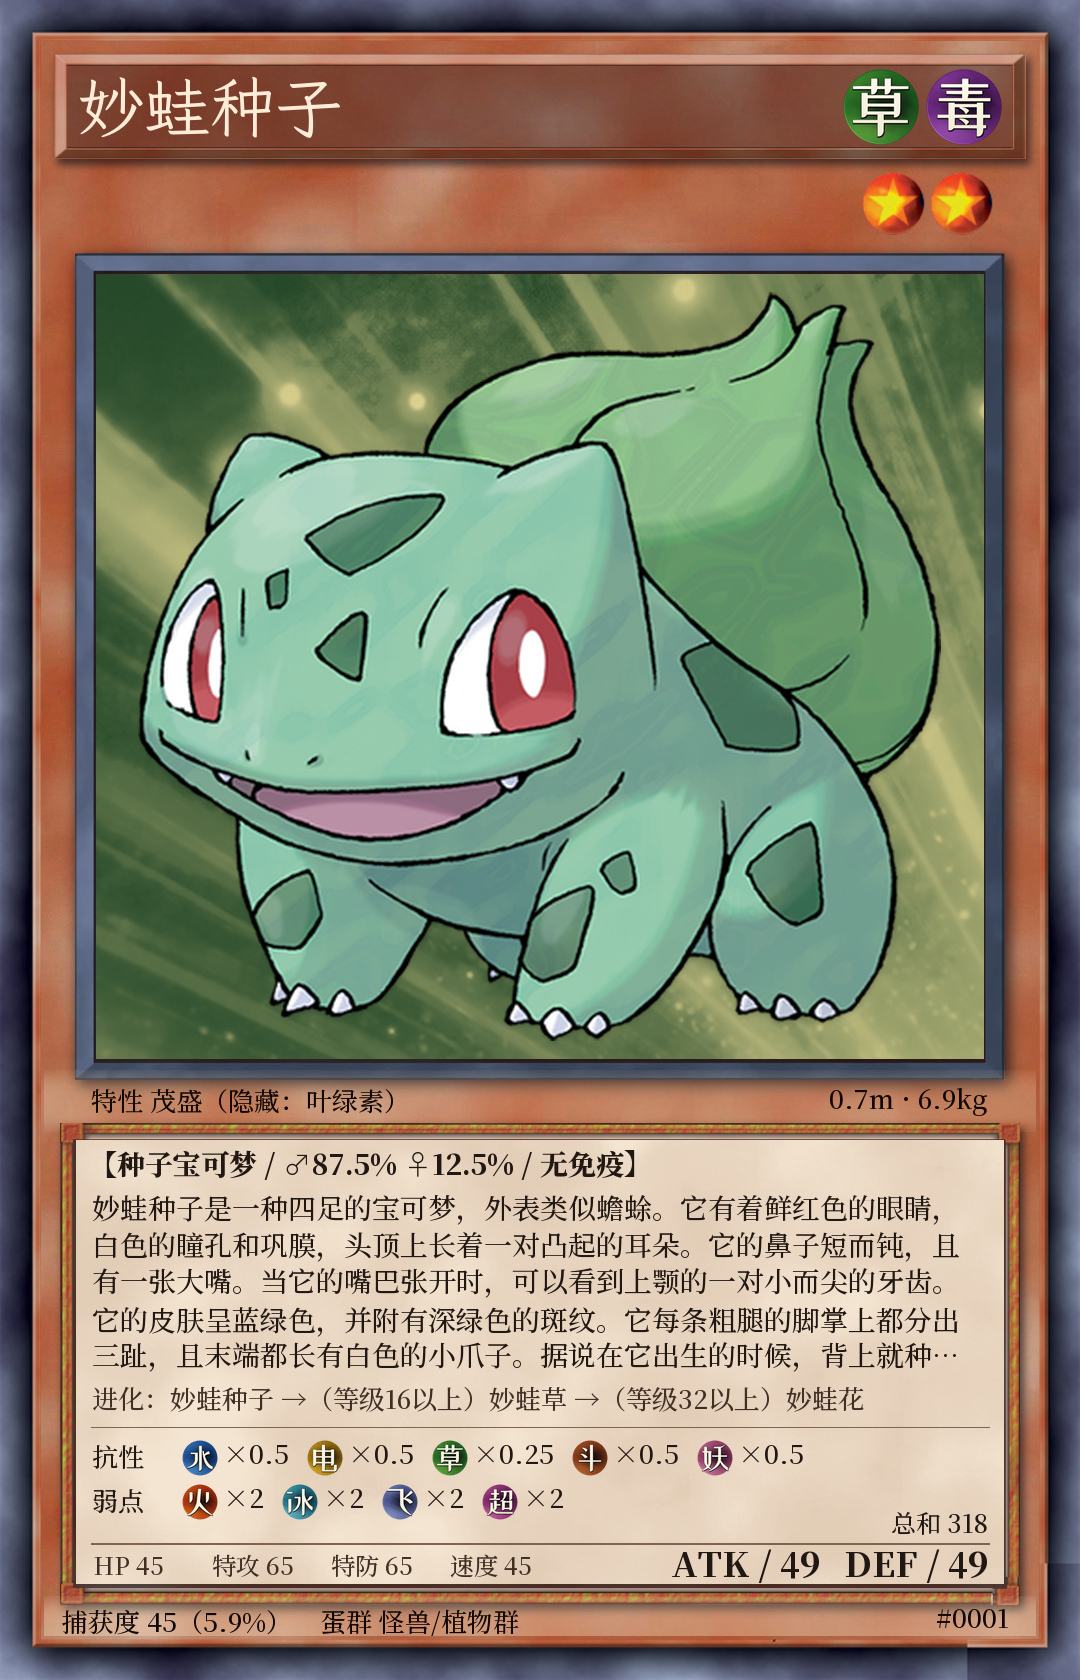
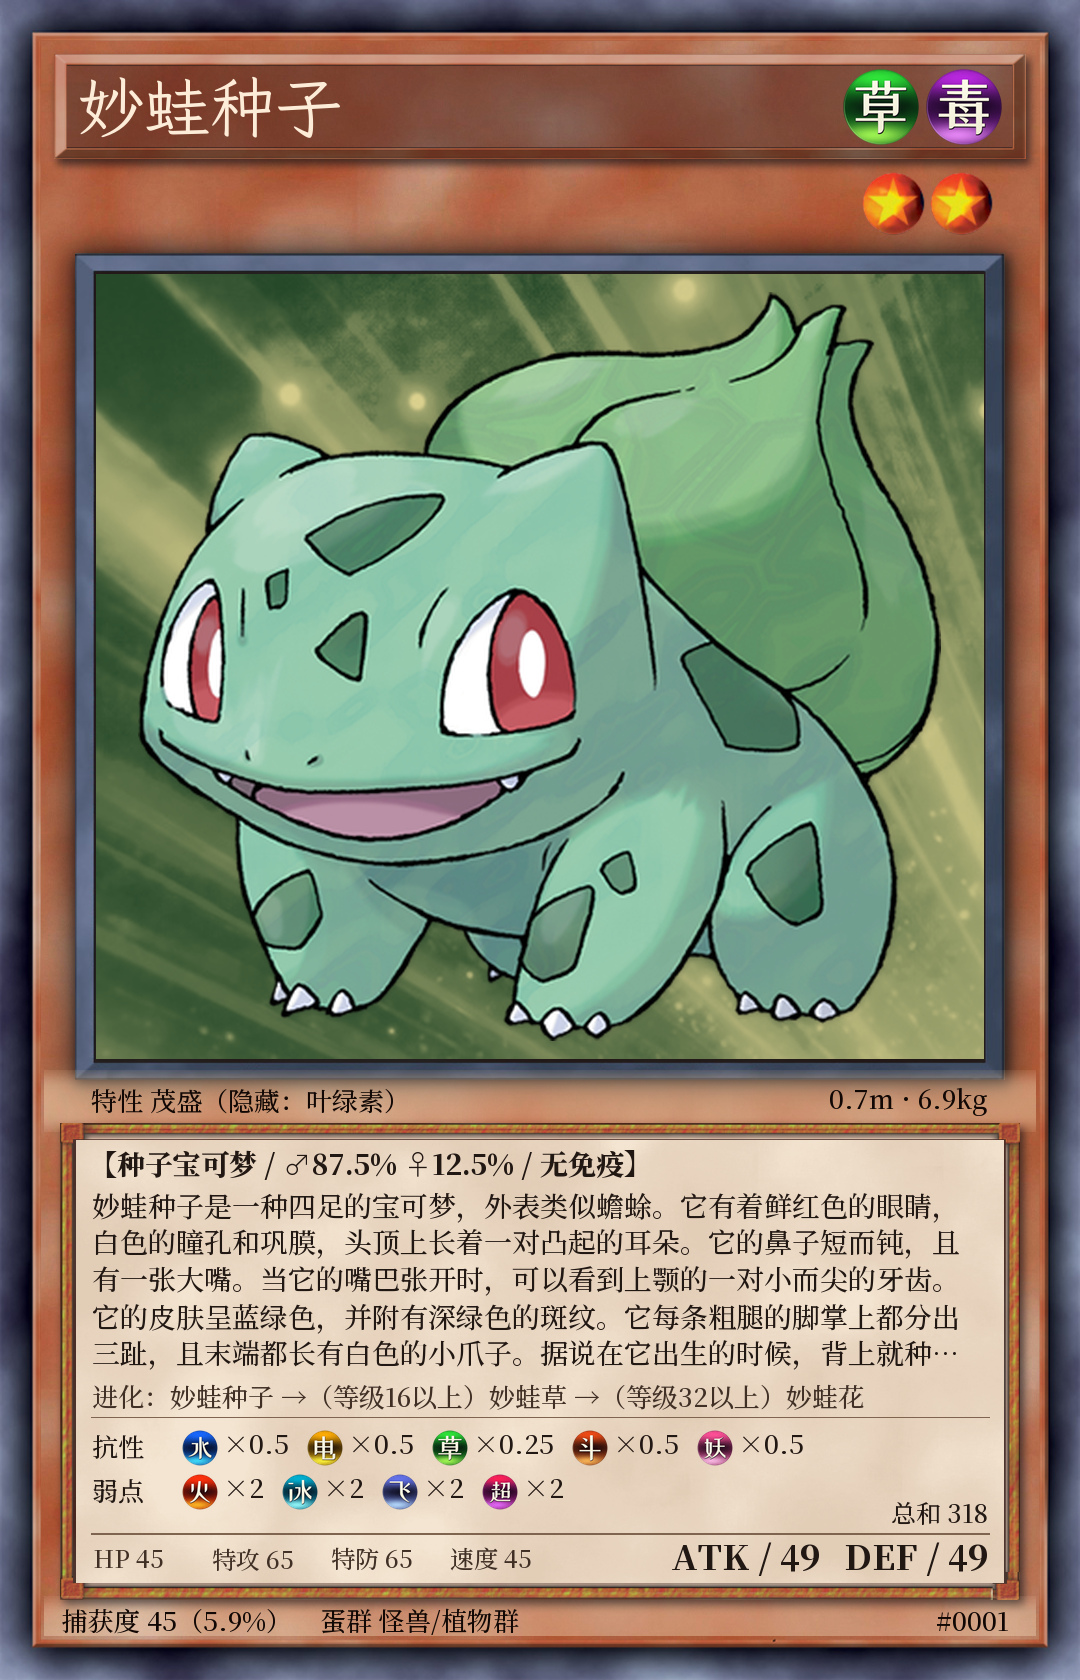
Refine Yu-Gi-Oh card spacing, frame shadows and luminous attributes

diff --git a/yugioh_symbols.py b/yugioh_symbols.py
@@ -44,6 +44,29 @@ ATTRIBUTES = {
     "妖精": ("妖", (145, 44, 93), (250, 162, 198)),
 }
 
+# The printed jewels have a bright upper pole, an almost black waist and a
+# saturated lower reflection. Hue shifts distinguish the two lit surfaces.
+_POLES = {
+    "草": ((47, 230, 58), (170, 255, 86)),
+    "火": ((255, 49, 12), (255, 191, 37)),
+    "水": ((23, 103, 255), (66, 229, 255)),
+    "电": ((255, 173, 5), (255, 247, 61)),
+    "超能力": ((255, 31, 84), (231, 108, 255)),
+    "格斗": ((240, 74, 21), (255, 188, 90)),
+    "恶": ((147, 22, 155), (213, 106, 255)),
+    "钢": ((105, 153, 185), (194, 247, 255)),
+    "龙": ((113, 47, 252), (154, 164, 255)),
+    "一般": ((189, 145, 91), (255, 240, 191)),
+    "冰": ((0, 177, 210), (155, 255, 255)),
+    "地面": ((215, 117, 25), (253, 211, 102)),
+    "飞行": ((99, 113, 236), (185, 223, 255)),
+    "毒": ((185, 39, 224), (240, 143, 255)),
+    "岩石": ((162, 145, 35), (238, 229, 123)),
+    "虫": ((138, 187, 10), (224, 255, 58)),
+    "幽灵": ((116, 51, 197), (195, 150, 255)),
+    "妖精": ((255, 79, 150), (255, 192, 235)),
+}
+
 _ALIASES = dict(zip(
     ("grass", "fire", "water", "electric", "psychic", "fighting", "dark",
      "steel", "dragon", "normal", "ice", "ground", "flying", "poison",
@@ -73,6 +96,7 @@ def _mix(a, b, amount):
 def _draw_jewel(type_name: str, *, face=None) -> Image.Image:
     """Asset-preparation source; live rendering reads the bundled PNGs below."""
     glyph, tint, reflected = ATTRIBUTES.get(type_name, ("?", (60, 59, 69), (180, 177, 190)))
+    upper_light, lower_light = _POLES.get(type_name, ((133, 132, 166), (223, 223, 249)))
     size, centre, radius = 256, 127.5, 124.0
     rng = random.Random(901 + sum(ord(char) for char in type_name))
     data = []
@@ -84,22 +108,23 @@ def _draw_jewel(type_name: str, *, face=None) -> Image.Image:
             if r >= 1:
                 data.append((0, 0, 0, 0))
                 continue
-            # The reference is printed enamel: a dark ink well, broad coloured
-            # reflections, and a thin struck rim rather than a glass hotspot.
-            lower = math.exp(-((u + .30) ** 2 / .68 + (v - .60) ** 2 / .22))
-            upper = math.exp(-((u + .43) ** 2 / .40 + (v + .63) ** 2 / .18))
-            hollow = math.exp(-((u - .21) ** 2 / .61 + (v + .04) ** 2 / .39))
+            # Broad opposing luminous poles leave a dark waist behind the
+            # lettering, as in the reference's red-to-purple DARK emblem.
+            lower = math.exp(-((u + .18) ** 2 / .90 + (v - .74) ** 2 / .075))
+            upper = math.exp(-((u + .08) ** 2 / 1.45 + (v + .77) ** 2 / .115))
+            hollow = math.exp(-((u - .07) ** 2 / 1.6 + (v + .01) ** 2 / .14))
             cloud = .5 + .25 * math.sin(u * 17 + 1.3 * math.sin(v * 11))
             cloud += .25 * math.sin(v * 21 - u * 9)
-            color = _mix(tint, reflected, .16 + .49 * lower + .23 * upper)
-            color = _mix(color, (5, 4, 8), .84 * hollow)
-            color = _mix(color, reflected, cloud * .055)
+            color = _mix(tint, (5, 2, 10), .80 * hollow)
+            color = _mix(color, upper_light, .98 * upper)
+            color = _mix(color, lower_light, .90 * lower)
+            color = _mix(color, reflected, cloud * .018)
             if r > .947:
                 # Only the lower-left cut edge catches light. A complete pale
                 # ring would turn the reference's jewel into a metal badge.
                 direction = max(0.0, min(1.0, -.52 * u + .48 * v))
                 edge = _mix(_mix(tint, (16, 10, 19), .54),
-                            _mix(reflected, (245, 237, 216), .35), direction)
+                            _mix(lower_light, (245, 249, 255), .38), direction)
                 highlight = math.exp(-((r - .971) / .013) ** 2)
                 color = _mix(color, edge, highlight * (.3 + .7 * direction))
                 color = _mix(color, (12, 8, 17), max(0.0, (r - .986) / .014) * .64)
@@ -110,6 +135,7 @@ def _draw_jewel(type_name: str, *, face=None) -> Image.Image:
             data.append((*color, alpha))
     result = Image.new("RGBA", (size, size))
     result.putdata(data)
+    disc_alpha = result.getchannel('A')
     # The inscription face has the reference's straight cuts and sharp endings.
     # This generator is offline; the live path below only reads cached images.
     face = face or load_card_font(210, "symbol")
@@ -117,14 +143,21 @@ def _draw_jewel(type_name: str, *, face=None) -> Image.Image:
     draw = ImageDraw.Draw(mask)
     draw.text((8, 8), glyph, font=face, anchor="lt", fill=255, stroke_width=1)
     mask = mask.crop(mask.getbbox())
-    scale = min(185 / mask.width, 191 / mask.height)
+    # Rectangular bounds are insufficient: a sweeping lower-left stroke can
+    # cross a circle even when both width and height fit. Fit the actual ink
+    # radially, leaving room for the engraving shadow inside the rim.
+    half_w, half_h = (mask.width - 1) / 2, (mask.height - 1) / 2
+    farthest = max(math.hypot(x-half_w, y-half_h)
+                   for y in range(mask.height) for x in range(mask.width)
+                   if mask.getpixel((x, y)) > 8)
+    scale = min(177 / mask.width, 181 / mask.height, 104 / max(1, farthest))
     mask = mask.resize((round(mask.width * scale), round(mask.height * scale)),
                        Image.Resampling.LANCZOS)
     centred = Image.new("L", result.size)
-    centred.paste(mask, ((size - mask.width) // 2, (size - mask.height) // 2 + 2))
+    centred.paste(mask, ((size - mask.width) // 2, (size - mask.height) // 2))
     mask = centred
     shade = Image.new("RGBA", result.size, (17, 7, 21, 0))
-    shade.putalpha(mask.filter(ImageFilter.MaxFilter(5)).filter(ImageFilter.GaussianBlur(.65)))
+    shade.putalpha(mask.filter(ImageFilter.MaxFilter(3)).filter(ImageFilter.GaussianBlur(.65)))
     result.alpha_composite(shade, (1, 2))
     ink = Image.new("RGBA", (1, size))
     ink.putdata([(*_mix((255, 254, 239), (237, 233, 209), y / (size - 1)), 255)
@@ -132,6 +165,7 @@ def _draw_jewel(type_name: str, *, face=None) -> Image.Image:
     ink = ink.resize(result.size)
     ink.putalpha(mask)
     result.alpha_composite(ink)
+    result.putalpha(disc_alpha)
     return result
 
 

diff --git a/yugioh_cards.py b/yugioh_cards.py
@@ -35,6 +35,11 @@ except ImportError:
 
 
 CARD_W, CARD_H = 1080, 1680
+# The visible paper, rather than the frame's shadow, defines each text rail.
+READING_BOX = (60, 1123, 1020, 1600)
+READING_PAPER = (76, 1140, 1004, 1583)
+STATS_RULE_Y = 1533
+FOOTER_BOTTOM = 1644
 STAT_NAMES = ("HP", "攻击", "防御", "特攻", "特防", "速度")
 INKS = {
     "C": ((34, 24, 19), (63, 47, 37), (127, 100, 79)),
@@ -258,7 +263,7 @@ def _matchups(base, layout, top, kind, total):
         y += len(rows) * 40 + 4
     total_text = f"总和 {total}"
     # Align the bottom-right number with the end of the ATK/DEF rule.
-    _text(draw, 988 - draw.textlength(total_text, font=_font(25)), 1511,
+    _text(draw, 988 - draw.textlength(total_text, font=_font(25)), STATS_RULE_Y - 32,
           total_text, 25, ink)
 
 
@@ -266,13 +271,13 @@ def _stats_band(base, item, kind):
     draw = ImageDraw.Draw(base)
     ink, muted, rule = INKS[kind]
     stats = _stats(item)
-    center_y = 1566
+    center_y = (STATS_RULE_Y + 2 + READING_PAPER[3]) / 2
     for index, name in enumerate(("HP", "特攻", "特防", "速度")):
         x = 93 + index * 119
         text = f"{name} {stats.get(name, '—')}"
         height = _font(24).getbbox(text, anchor="lt")[3]
         _text(draw, x, center_y - height / 2, text, 24, muted)
-    draw.line((91, 1543, 989, 1543), fill=rule, width=2)
+    draw.line((91, STATS_RULE_Y, 989, STATS_RULE_Y), fill=rule, width=2)
     combat = f"ATK / {stats.get('攻击', '—')}   DEF / {stats.get('防御', '—')}"
     height = _title_font(34).getbbox(combat, anchor="lt")[3]
     _text(draw, 988 - draw.textlength(combat, font=_title_font(34)), center_y - height / 2,
@@ -284,8 +289,9 @@ def _foil_name(base, name, x, y, size, kind, *, font=None):
 
 
 def _reading_frame(base, kind):
-    paint_frame(base, 'description', (60, 1123, 1020, 1605), kind)
-    base.alpha_composite(render_reading_stock(kind, 928, 444), (76, 1140))
+    paint_frame(base, 'description', READING_BOX, kind)
+    left, top, right, bottom = READING_PAPER
+    base.alpha_composite(render_reading_stock(kind, right-left, bottom-top), (left, top))
 
 
 def _descriptor(base, item, types, kind, missing):
@@ -323,7 +329,7 @@ def _quiet_rail(base, top, bottom, kind):
     if kind not in {'C', 'R', 'SR'}:
         return
     if kind == 'C':
-        color, opacity = ((247, 220, 188), 100) if top > 1550 else ((237, 202, 165), 80)
+        color, opacity = ((247, 220, 188), 100) if top > 1550 else ((237, 202, 165), 130)
     else:
         color, opacity = (27, 9, 33), 103 if kind == 'SR' else 40
     margin = 12
@@ -371,8 +377,13 @@ def _footer(base, item, kind, missing):
     available = 931 - right_width - 24
     if draw.textlength(left, font=_font(size)) > available:
         missing.append(f"捕获度：{catch}；蛋群：{eggs}")
-    _text(draw, 62, 1609, left, size, ink, width=available)
-    _text(draw, 1009 - right_width, 1609, serial, size, ink)
+    center = (READING_BOX[3] + FOOTER_BOTTOM) / 2
+    # Chinese text, parentheses and the short numeric serial have different
+    # ink heights. Centre each in the exposed stock beneath the description.
+    left_y = center - _font(size).getbbox(left, anchor='lt')[3] / 2
+    serial_y = center - _font(size).getbbox(serial, anchor='lt')[3] / 2
+    _text(draw, 62, left_y, left, size, ink, width=available)
+    _text(draw, 1009 - right_width, serial_y, serial, size, ink)
 
 
 def _card(item: DrawItem, loader: Callable | None):
@@ -421,7 +432,7 @@ def _card(item: DrawItem, loader: Callable | None):
     draw = ImageDraw.Draw(base)
     layout = _matchup_layout(draw, item)
     matchup_height = sum(len(rows) * 40 + 4 for _label, rows in layout)
-    matchup_top = 1528 - matchup_height
+    matchup_top = STATS_RULE_Y - 15 - matchup_height
     y = descriptor_bottom + 12
     evolution = "；".join(dict.fromkeys(part.strip() for part in
         _split_top_level(str(item.row.get("evolution") or ""), "；") if part.strip()))

diff --git a/yugioh_frames.py b/yugioh_frames.py
@@ -64,13 +64,25 @@ def _frame(name, width, height, kind):
 def paint_frame(base, name, box, kind):
     left, top, right, bottom = map(round, box)
     width, height = right-left, bottom-top
-    # The original picture mould casts a soft, narrow contact shadow in the
-    # stock, while the inset lip stays a crisp printed bevel.
-    if name in {'title', 'picture', 'description'} and not (name == 'title' and kind == 'SHINY'):
+    # The original picture mould stands above the stock: its broad ambient
+    # shadow is visible on all four sides, with a darker contact edge below.
+    # Keep this outside the mould so neither paper nor portrait is dimmed.
+    if name == 'picture':
+        margin = 64
+        for blur, spread, opacity, offset in ((15, 5, 185, (0, 1)),
+                                               (5, 1, 150, (2, 4))):
+            mask = Image.new('L', (width+margin*2, height+margin*2))
+            ImageDraw.Draw(mask).rectangle(
+                (margin-spread, margin-spread, margin+width+spread, margin+height+spread),
+                fill=opacity)
+            shade = Image.new('RGBA', mask.size, (14, 17, 20, 0))
+            shade.putalpha(mask.filter(ImageFilter.GaussianBlur(blur)))
+            base.alpha_composite(shade, (left-margin+offset[0], top-margin+offset[1]))
+    elif name in {'title', 'description'} and not (name == 'title' and kind == 'SHINY'):
         margin = 20
         mask = Image.new('L',(width+margin*2,height+margin*2))
-        ImageDraw.Draw(mask).rectangle((margin,margin,width+margin,height+margin),fill=210 if name=='picture' else 160)
+        ImageDraw.Draw(mask).rectangle((margin,margin,width+margin,height+margin),fill=160)
         shade = Image.new('RGBA', mask.size, (12, 13, 20, 0))
-        shade.putalpha(mask.filter(ImageFilter.GaussianBlur(7 if name=='picture' else 4)))
+        shade.putalpha(mask.filter(ImageFilter.GaussianBlur(4)))
         base.alpha_composite(shade,(left-margin+3,top-margin+5))
     base.alpha_composite(_frame(name,width,height,kind),(left,top))

diff --git a/yugioh_card_tests.py b/yugioh_card_tests.py
@@ -411,7 +411,11 @@ class YugiohCardTests(unittest.TestCase):
                 self.assertGreater(combat.box[0], image.width / 2,
                                    "ATK and DEF belong together at the bottom right")
                 self.assertLess(combat.box[3], footer.box[1])
-                self.assertEqual(footer.box[1], serial.box[1])
+                for text in (footer, serial):
+                    top_gap = text.box[1] - yugioh_cards.READING_BOX[3]
+                    bottom_gap = yugioh_cards.FOOTER_BOTTOM - text.box[3]
+                    self.assertLessEqual(abs(top_gap - bottom_gap), 1,
+                                         'Centre actual footer ink in the exposed paper')
 
     def test_matchups_pair_every_actual_type_jewel_with_its_multiplier_only(self):
         for key in ("6", "82", "302"):
@@ -515,6 +519,11 @@ class YugiohCardTests(unittest.TestCase):
                 self.assertLessEqual(rule[1] - total.box[3], 16,
                                      "The total belongs immediately above the bottom rule")
                 combat_center = (combat.box[1] + combat.box[3]) / 2
+                self.assertGreaterEqual(combat.box[1] - rule[1], 7)
+                self.assertGreaterEqual(yugioh_cards.READING_PAPER[3] - combat.box[3], 7)
+                self.assertLessEqual(abs(combat.box[1] - (rule[1]+2) -
+                                         (yugioh_cards.READING_PAPER[3]-combat.box[3])), 1,
+                                     'Keep equal clearance above and below the combat ink')
                 for label in ("HP ", "特攻 ", "特防 ", "速度 "):
                     stat = next(record for record in body if record.value.startswith(label))
                     self.assertLessEqual(abs((stat.box[1] + stat.box[3]) / 2 - combat_center), 1,

diff --git a/CHANGELOG.md b/CHANGELOG.md
@@ -2,6 +2,13 @@
 
 版本按从新到旧排列。
 
+## v1.3.11（2026-10-30）
+
+- 统一调整游戏王五档卡面的信息框、攻防行和页脚留白，中文与图鉴编号按实际字形分别居中。
+- 扩大画窗四周的柔和阴影，增加贴边阴影的层次，并补偿普通卡特性栏的文字对比度。
+- 重绘全部属性圆章，增强上、下两端亮色与深色中心的渐变对比，保留饱和辉光；按字形实际轮廓内缩，修复笔画越出圆章的问题。
+- 清理外框右下角的旧素材拼接色块，更新五档原尺寸预览和管理台卡面示例。
+
 ## v1.3.10（2026-10-30）
 
 - 按实际文字与星标边界调整游戏王卡片留白：全套星级放大、星级栏增高、特性栏收紧，姓名、属性章与身高体重分别居中，简介不再把末行空白算入高度。
